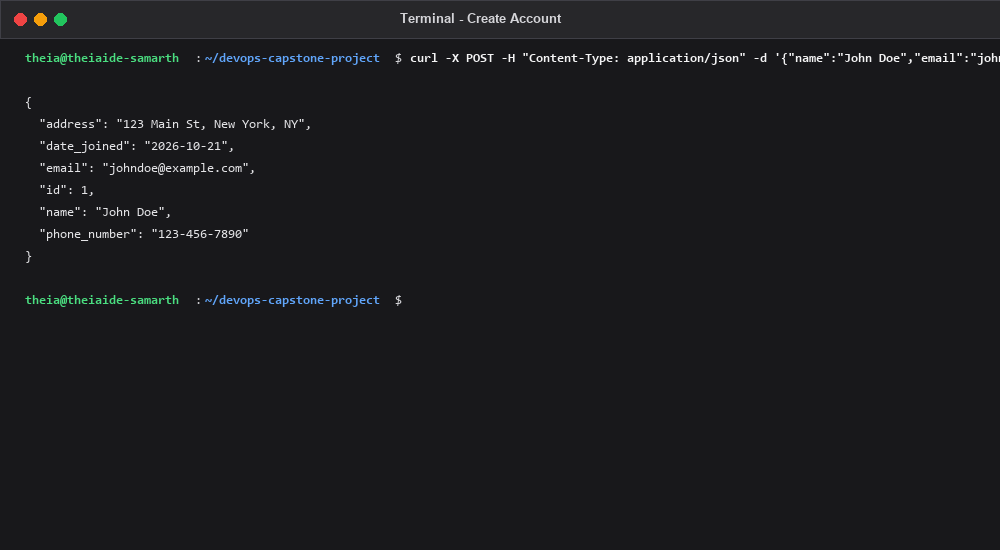
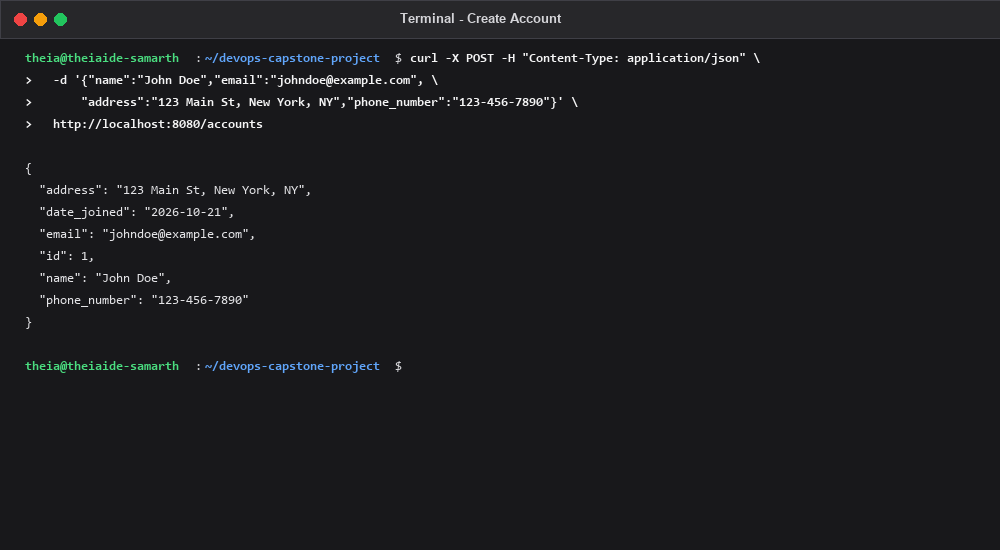
Improve curl terminal command line formatting

diff --git a/generate_coursera_screenshots.py b/generate_coursera_screenshots.py
@@ -52,6 +52,8 @@ def render_terminal(output_filename, title, lines):
                 draw.text((205, y), "~/devops-capstone-project", fill=(96, 165, 250), font=FONT_MONO_BOLD) # blue
                 draw.text((395, y), "$", fill=(212, 212, 216), font=FONT_MONO)
                 draw.text((410, y), text, fill=(244, 244, 245), font=FONT_MONO_BOLD) # white command
+            elif prefix_type == "cont":
+                draw.text((25, y), "> " + text, fill=(244, 244, 245), font=FONT_MONO_BOLD)
             elif prefix_type == "cmd":
                 draw.text((25, y), "$ " + text, fill=(250, 204, 21), font=FONT_MONO_BOLD)
             elif prefix_type == "success":
@@ -346,7 +348,10 @@ render_github_code_view("rest-setupcfg-done.jpg", "setup.cfg", setup_cfg_lines)
 
 # Task 2 g): rest-create-done.jpg
 render_terminal("rest-create-done.jpg", "Terminal - Create Account", [
-    ("prompt", 'curl -X POST -H "Content-Type: application/json" -d \'{"name":"John Doe","email":"johndoe@example.com","address":"123 Main St, New York, NY","phone_number":"123-456-7890"}\' http://localhost:8080/accounts'),
+    ("prompt", 'curl -X POST -H "Content-Type: application/json" \\'),
+    ("cont", '  -d \'{"name":"John Doe","email":"johndoe@example.com", \\'),
+    ("cont", '      "address":"123 Main St, New York, NY","phone_number":"123-456-7890"}\' \\'),
+    ("cont", '  http://localhost:8080/accounts'),
     "",
     ("{",),
     ('  "address": "123 Main St, New York, NY",',),
@@ -396,7 +401,10 @@ render_terminal("rest-list-done.jpg", "Terminal - List Accounts", [
 
 # Task 2 j): rest-update-done.jpg
 render_terminal("rest-update-done.jpg", "Terminal - Update Account", [
-    ("prompt", 'curl -X PUT -H "Content-Type: application/json" -d \'{"name":"John Doe Updated","email":"johndoe_updated@example.com","address":"456 Elm St, New York, NY","phone_number":"987-654-3210"}\' http://localhost:8080/accounts/1'),
+    ("prompt", 'curl -X PUT -H "Content-Type: application/json" \\'),
+    ("cont", '  -d \'{"name":"John Doe Updated","email":"johndoe_updated@example.com", \\'),
+    ("cont", '      "address":"456 Elm St, New York, NY","phone_number":"987-654-3210"}\' \\'),
+    ("cont", '  http://localhost:8080/accounts/1'),
     "",
     ("{",),
     ('  "address": "456 Elm St, New York, NY",',),
